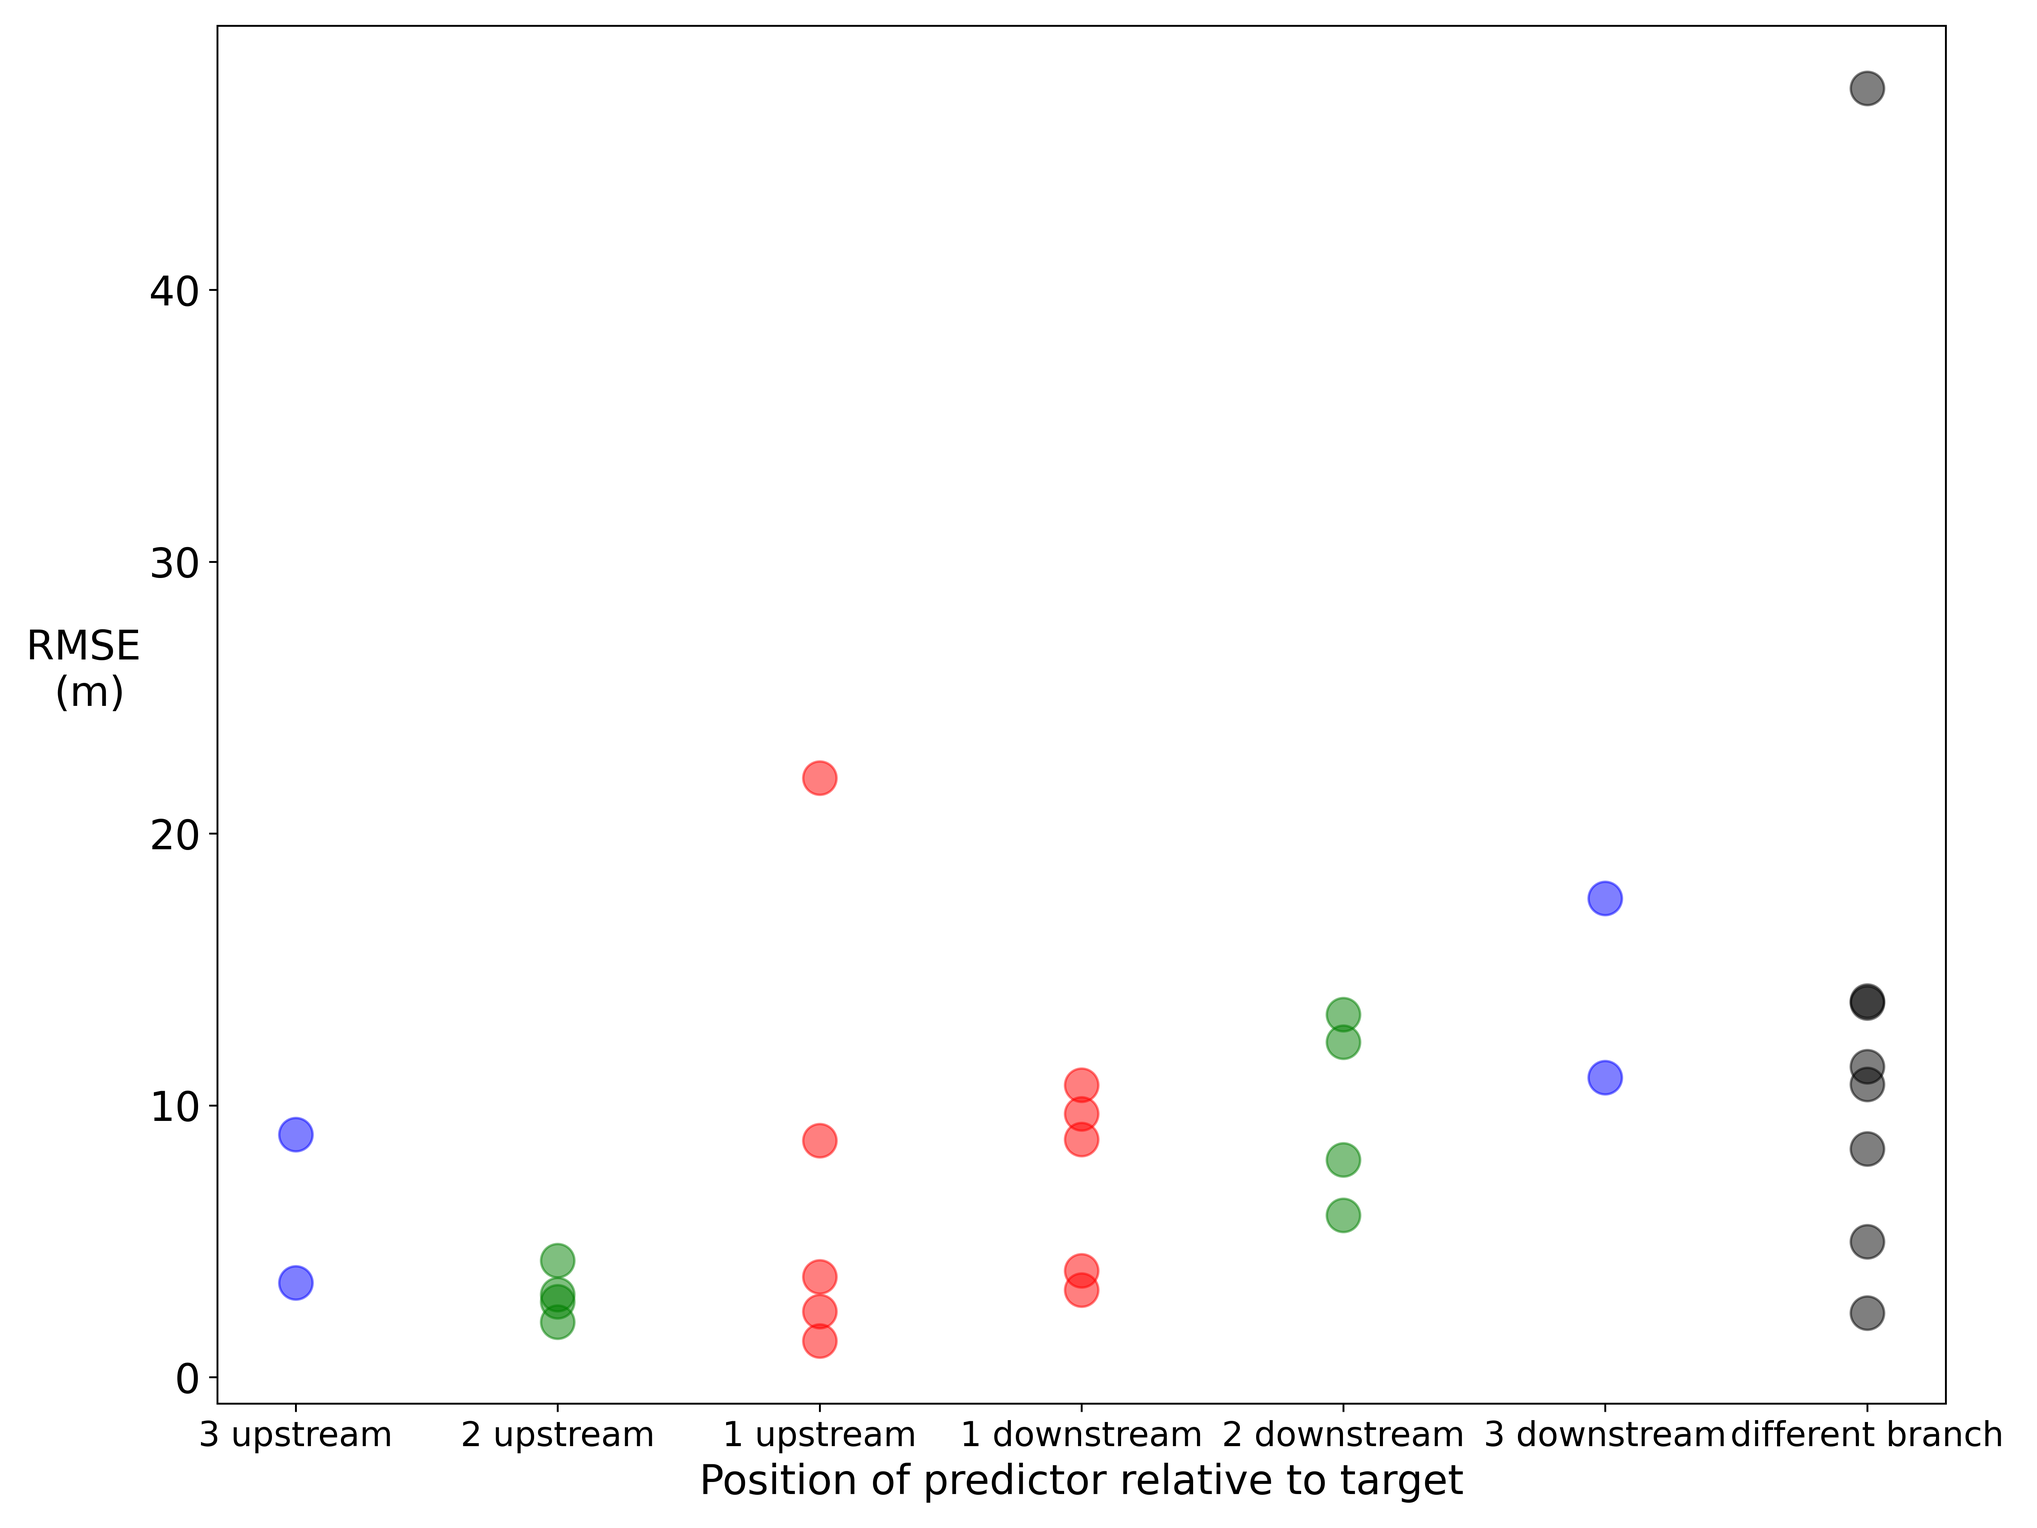
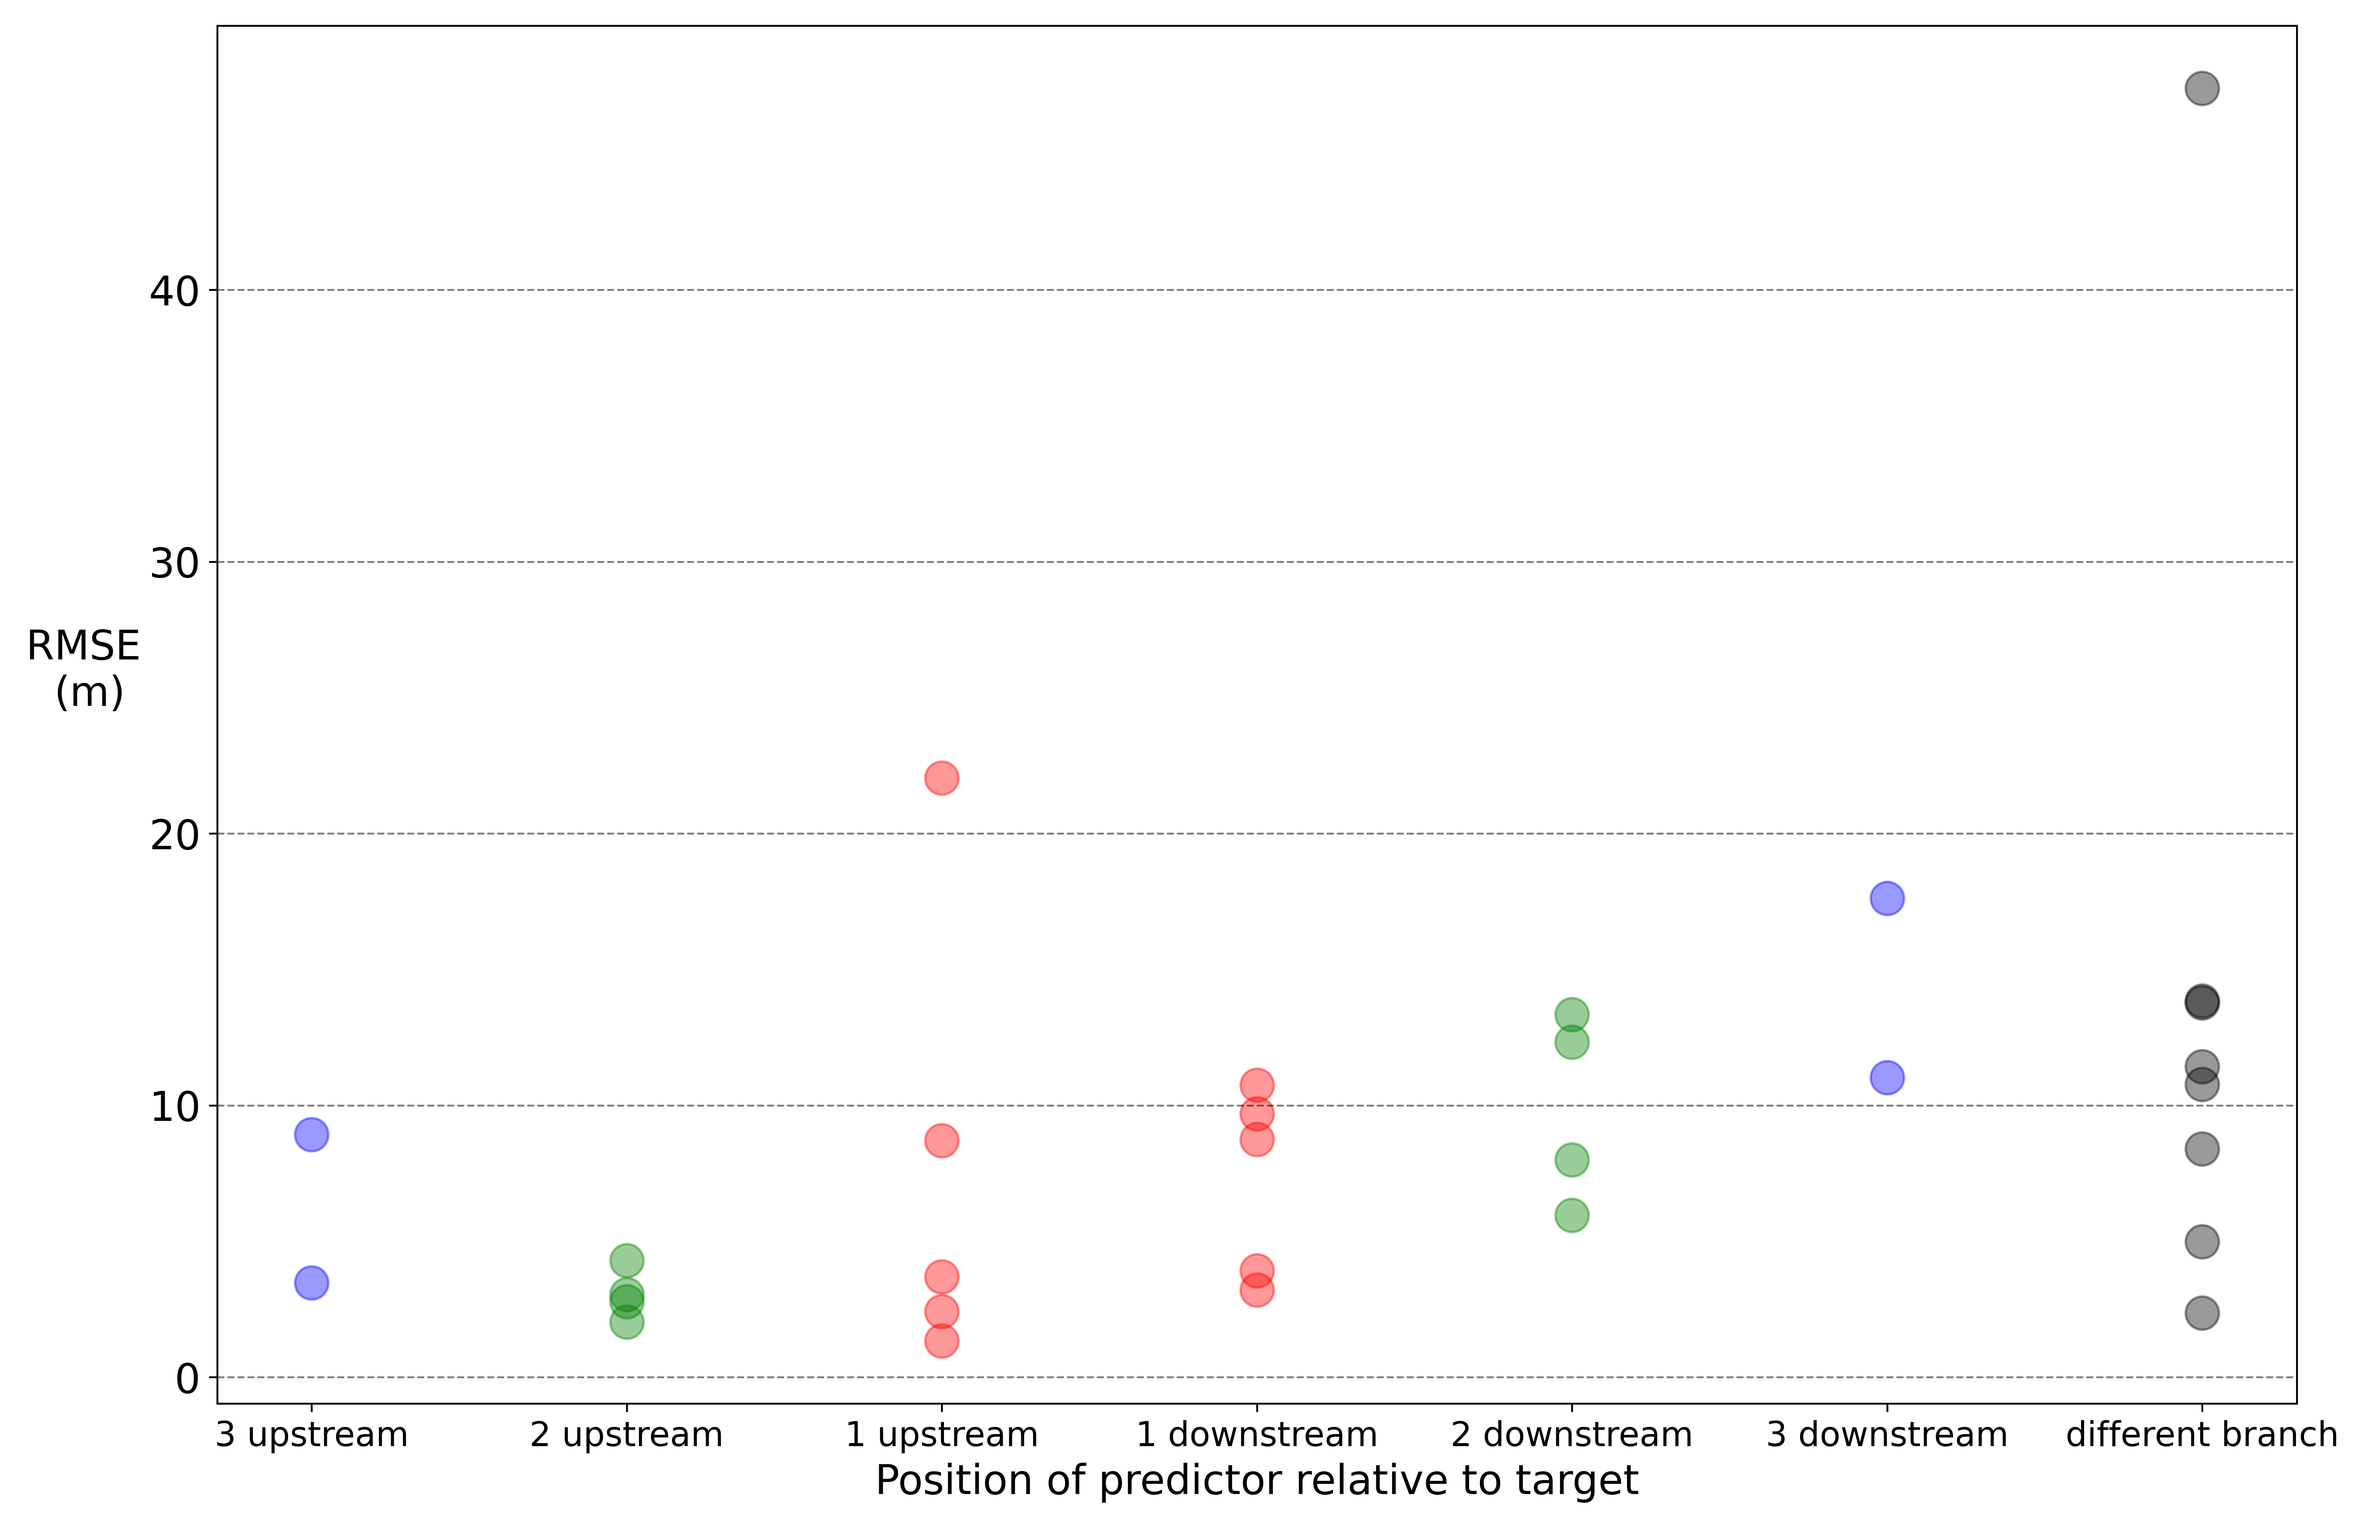
minor fig edits

diff --git a/teammate_state_inference_evaluation.py b/teammate_state_inference_evaluation.py
@@ -11,7 +11,7 @@ ft2meters = 0.3048
 year = "2021" # or "2021"
 # options are: 'centralized', 'hi-fi', 'lo-fi', and 'local'
 control_scenario = 'hi-fi' 
-packet_loss_chance = 0.9995
+packet_loss_chance = 0.9995 # (0.9995 is one week)
 
 # for figure 5, just need to load in the timeseries of estiamtes of one node by several other nodes
 perspectives = ['truth','server','1','4','6','7','8','10']
@@ -164,7 +164,7 @@ difference_over_distance.loc['diff_branch','mean'] = np.mean(diff_branch)
 '''
 
 # now plot a line chart where each xtick is one of the 7 bins, and the y value is the average RMSE in that bin
-fig, ax = plt.subplots(figsize=(12,9))
+fig, ax = plt.subplots(figsize=(14,9))
 # plot box plots of each bin, labeled by their names. in the order up3, up2, up1, down1, down2, down3, diff_branch
 #ax.boxplot([up3,up2,up1,down1,down2,down3,diff_branch],labels=['3 upstream','2 upstream','1 upstream','1 downstream','2 downstream','3 downstream','different branch'])
 # exclude "different branch" for now
@@ -175,17 +175,21 @@ l_width = 5
 #           boxprops=dict(linewidth=l_width),whiskerprops=dict(linewidth=l_width),capprops=dict(linewidth=l_width),medianprops=dict(linewidth=l_width))
 # make this a scatter plot instead
 mark_size = 200
-ax.scatter([1]*len(up3),up3,alpha=0.5, s = mark_size, color = 'b')
-ax.scatter([2]*len(up2),up2,alpha=0.5, s = mark_size, color = 'g')
-ax.scatter([3]*len(up1),up1,alpha=0.5, s = mark_size, color = 'r')
-ax.scatter([4]*len(down1),down1,alpha=0.5, s = mark_size, color = 'r')
-ax.scatter([5]*len(down2),down2,alpha=0.5, s = mark_size, color = 'g')
-ax.scatter([6]*len(down3),down3,alpha=0.5, s = mark_size, color = 'b')
-ax.scatter([7]*len(diff_branch),diff_branch,alpha=0.5, s = mark_size, color = 'k') # once results come in evaluate whether to keep this one or not
+ax.scatter([1]*len(up3),up3,alpha=0.4, s = mark_size, color = 'b')
+ax.scatter([2]*len(up2),up2,alpha=0.4, s = mark_size, color = 'g')
+ax.scatter([3]*len(up1),up1,alpha=0.4, s = mark_size, color = 'r')
+ax.scatter([4]*len(down1),down1,alpha=0.4, s = mark_size, color = 'r')
+ax.scatter([5]*len(down2),down2,alpha=0.4, s = mark_size, color = 'g')
+ax.scatter([6]*len(down3),down3,alpha=0.4, s = mark_size, color = 'b')
+ax.scatter([7]*len(diff_branch),diff_branch,alpha=0.4, s = mark_size, color = 'k') # once results come in evaluate whether to keep this one or not
 # add the labels
 # if lo-fi, set the y axis to be log scale
 if control_scenario == 'lo-fi':
     ax.set_yscale('log')
+
+# add faint horizontal grid lines
+ax.yaxis.grid(True, linestyle='--', which='both', color='black', alpha = 0.5)
+#ax.yaxis.grid(True, linestyle='-.', which='minor', color='black', alpha = 0.25)
 
 ax.set_xticks([1,2,3,4,5,6,7])
 ax.set_xticklabels(['3 upstream','2 upstream','1 upstream','1 downstream','2 downstream','3 downstream','different branch'],fontsize='xx-large')
